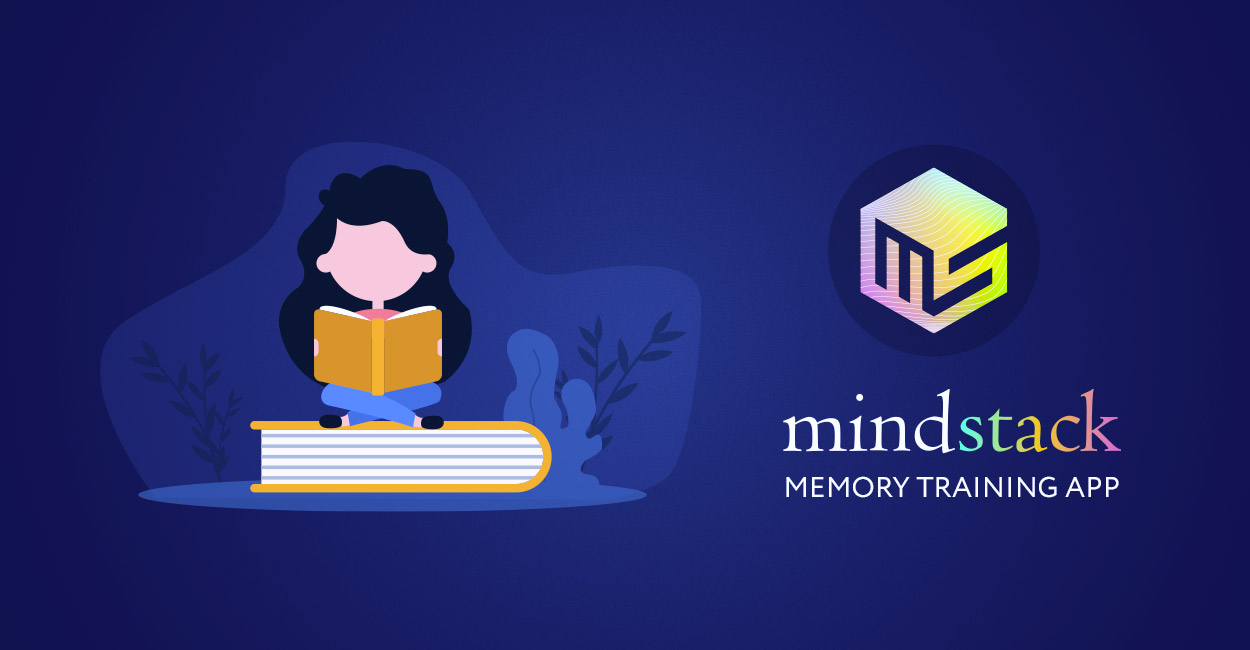
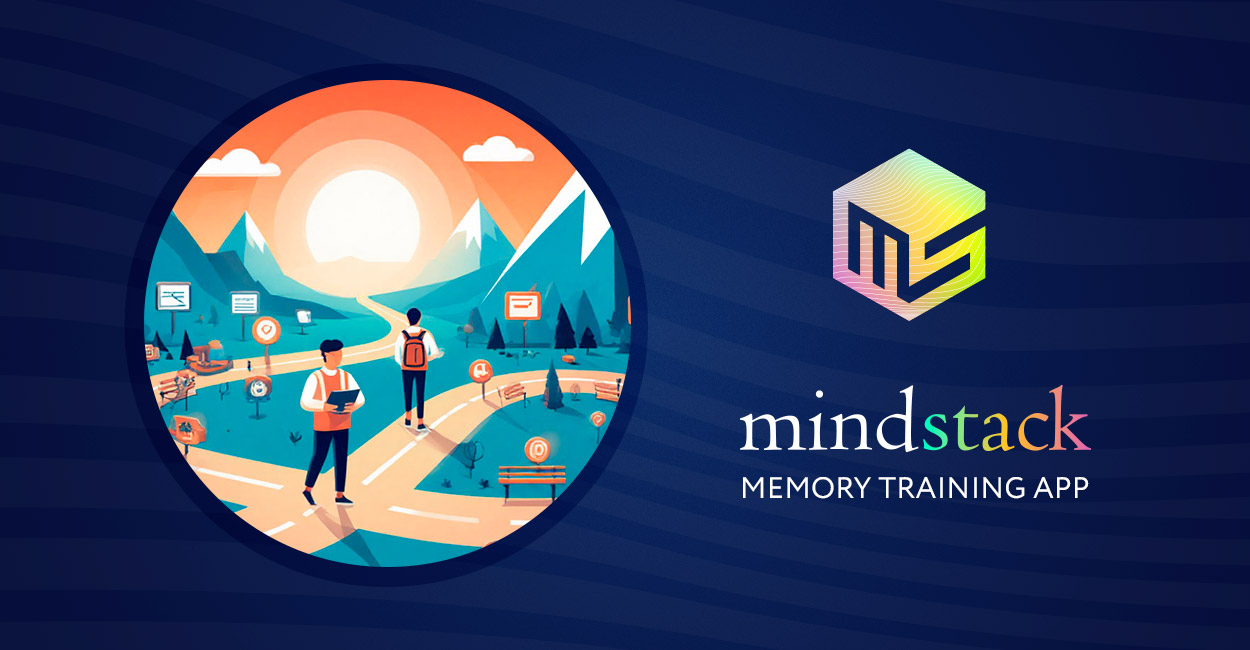
Issue #56: Landing page: Added images, updated styles.

diff --git a/src/components/screens/LandingContent/FeaturesSection.tsx b/src/components/screens/LandingContent/FeaturesSection.tsx
@@ -33,7 +33,7 @@ export function FeaturesSection() {
           debugId="CreateCustomTopics"
           title={t('Landing.FeaturesSection.Card-1-Title')}
           description={t('Landing.FeaturesSection.Card-1-Text')}
-          imageSrc="/static/landing/placeholder-feature-16-9.png"
+          imageSrc="/static/landing/features/15.jpg"
           imageAlt={t('Landing.FeaturesSection.Card-1-Title')}
           imageAspectRatio="aspect-video"
           // descriptionSize="lg"
@@ -47,7 +47,7 @@ export function FeaturesSection() {
           debugId="InteractiveWorkouts"
           title={t('Landing.FeaturesSection.Card-2-Title')}
           description={t('Landing.FeaturesSection.Card-2-Text')}
-          imageSrc="/static/landing/placeholder-feature-16-9.png"
+          imageSrc="/static/landing/features/09.jpg"
           imageAlt={t('Landing.FeaturesSection.Card-2-Title')}
           imageAspectRatio="aspect-video"
         />
@@ -55,9 +55,9 @@ export function FeaturesSection() {
           debugId="QuestionAnswerSystem"
           title={t('Landing.FeaturesSection.Card-3-Title')}
           description={t('Landing.FeaturesSection.Card-3-Text')}
-          imageSrc="/static/landing/placeholder-feature-4-3.png"
+          imageSrc="/static/landing/features/07.jpg"
           imageAlt={t('Landing.FeaturesSection.Card-3-Title')}
-          imageAspectRatio="aspect-[4/3]"
+          imageAspectRatio="aspect-video"
         />
       </div>
 
@@ -67,15 +67,15 @@ export function FeaturesSection() {
           debugId="MultiLanguageSupport"
           title={t('Landing.FeaturesSection.Card-4-Title')}
           description={t('Landing.FeaturesSection.Card-4-Text')}
-          imageSrc="/static/landing/placeholder-feature.png"
+          imageSrc="/static/landing/features/10.jpg"
           imageAlt={t('Landing.FeaturesSection.Card-4-Title')}
-          imageAspectRatio="aspect-square"
+          imageAspectRatio="aspect-video"
         />
         <FeatureCard
           debugId="ProgressTracking"
           title={t('Landing.FeaturesSection.Card-5-Title')}
           description={t('Landing.FeaturesSection.Card-5-Text')}
-          imageSrc="/static/landing/placeholder-feature-16-9.png"
+          imageSrc="/static/landing/features/11.jpg"
           imageAlt={t('Landing.FeaturesSection.Card-5-Title')}
           imageAspectRatio="aspect-video"
         />
@@ -83,9 +83,9 @@ export function FeaturesSection() {
           debugId="ShareCollaborate"
           title={t('Landing.FeaturesSection.Card-6-Title')}
           description={t('Landing.FeaturesSection.Card-6-Text')}
-          imageSrc="/static/landing/placeholder-feature-4-3.png"
+          imageSrc="/static/landing/features/13.jpg"
           imageAlt={t('Landing.FeaturesSection.Card-6-Title')}
-          imageAspectRatio="aspect-[4/3]"
+          imageAspectRatio="aspect-video"
         />
       </div>
     </section>

diff --git a/src/components/blocks/WelcomeVisualBlock.tsx b/src/components/blocks/WelcomeVisualBlock.tsx
@@ -2,27 +2,40 @@ import Image from 'next/image';
 
 import { TPropsWithClassName } from '@/lib/types';
 import { cn } from '@/lib/utils';
+import { useT } from '@/i18n';
 import { SmallWelcomeText } from '@/components/screens/SmallWelcomeText';
-import svgArt from '@/assets/arts/bink-bus-single.svg';
+// import svgArt from '@/assets/arts/bink-bus-single.svg';
 import { isDev } from '@/constants';
 
 export function WelcomeVisualBlock(props: TPropsWithClassName) {
   const { className } = props;
+  const t = useT();
   return (
     <div
       className={cn(
-        isDev && '__WelcomeVisualBlock_Scroll', // DEBUG
-        'flex flex-1 flex-col items-center justify-center',
+        isDev && '__WelcomeVisualBlock', // DEBUG
+        'relative w-full p-6',
+        'flex flex-1 flex-col items-center justify-center gap-4',
         className,
       )}
     >
       <div
         className={cn(
-          isDev && '__WelcomeVisualBlock', // DEBUG
-          'relative w-full px-6',
-          'flex flex-1 flex-col items-center justify-center',
+          isDev && '__WelcomeVisualBlock_ImageContainer', // DEBUG
+          'relative w-full overflow-hidden rounded-lg',
+          'aspect-video',
         )}
       >
+        <Image
+          src="/static/landing/features/14.jpg"
+          alt={t('Landing.HeroSection.Title')}
+          fill
+          className="object-cover"
+          priority
+        />
+      </div>
+
+      {/* // Show a logo in the top right corner
         <Image
           src={svgArt}
           alt="Intro illustration"
@@ -33,7 +46,6 @@ export function WelcomeVisualBlock(props: TPropsWithClassName) {
             'select-none',
           )}
         />
-        {/* // Show a logo in the top right corner
         <div
           className={cn(
             isDev && '__WelcomeVisualBlock_Logo', // DEBUG
@@ -47,8 +59,7 @@ export function WelcomeVisualBlock(props: TPropsWithClassName) {
           <Image src={logoSvg} className="h-12 w-auto" alt={siteTitle} priority={false} />
         </div>
         */}
-        <SmallWelcomeText className="p-6 pb-8 pt-0" />
-      </div>
+      <SmallWelcomeText className="" />
     </div>
   );
 }

diff --git a/src/components/blocks/InfoVisualBlock.tsx b/src/components/blocks/InfoVisualBlock.tsx
@@ -2,11 +2,13 @@ import Image from 'next/image';
 
 import { TPropsWithClassName } from '@/lib/types';
 import { cn } from '@/lib/utils';
-import svgArt from '@/assets/arts/girl-with-a-book.svg';
+import { useT } from '@/i18n';
+// import svgArt from '@/assets/arts/girl-with-a-book.svg';
 import { isDev } from '@/constants';
 
 export function InfoVisualBlock(props: TPropsWithClassName) {
   const { className } = props;
+  const t = useT();
   return (
     <div
       className={cn(
@@ -17,8 +19,26 @@ export function InfoVisualBlock(props: TPropsWithClassName) {
         'flex flex-col',
         'items-stretch',
         'justify-center',
+        'w-full',
+        'max-w-xl',
       )}
     >
+      <div
+        className={cn(
+          isDev && '__InfoVisualBlock_ImageContainer', // DEBUG
+          'relative w-full overflow-hidden rounded-lg',
+          'aspect-video',
+        )}
+      >
+        <Image
+          src="/static/landing/features/14.jpg"
+          alt={t('Landing.HeroSection.Title')}
+          fill
+          className="object-cover"
+          priority
+        />
+      </div>
+      {/*
       <Image
         // priority
         src={svgArt}
@@ -29,7 +49,6 @@ export function InfoVisualBlock(props: TPropsWithClassName) {
           'sm:max-w-lg',
         )}
       />
-      {/*
       <div
         className={cn(
           isDev && '__InfoVisualBlock:Art', // DEBUG

diff --git a/src/features/categories/actions/getRecentCategories.ts b/src/features/categories/actions/getRecentCategories.ts
@@ -8,20 +8,17 @@ import { getErrorText } from '@/lib/helpers';
 import { TLocale } from '@/i18n/types';
 import { hourMs } from '@/constants/datetime';
 
+import { recentCategoriesCount } from '../constants';
+
 /** Auto-revalidate every hour (in seconds) */
 const revalidateTimeoutSec = Math.round(hourMs / 1000);
-
-const defaultRecentCategoriesCount = 5;
 
 interface TParams {
   take?: number;
   locale?: TLocale;
 }
 
-export async function getRecentCategories({
-  take = defaultRecentCategoriesCount,
-  locale,
-}: TParams) {
+export async function getRecentCategories({ take = recentCategoriesCount, locale }: TParams) {
   try {
     // NOTE: Don't use `getAvailableCategories`, because it uses nextjs context
     // (`auth`, for example, what is unavailable during SSG, if called from
@@ -67,7 +64,7 @@ export async function getRecentCategories({
 }
 
 export const getCachedRecentCategories = async ({
-  take = defaultRecentCategoriesCount,
+  take = recentCategoriesCount,
   locale,
 }: TParams) => {
   const localeKey = locale ?? 'all';

diff --git a/src/components/screens/LandingContent/shared/FAQAccordionItem.tsx b/src/components/screens/LandingContent/shared/FAQAccordionItem.tsx
@@ -4,6 +4,7 @@ import React from 'react';
 
 import { cn } from '@/lib/utils';
 import { AccordionContent, AccordionItem, AccordionTrigger } from '@/components/ui/Accordion';
+import * as Icons from '@/components/shared/Icons';
 import { isDev } from '@/config';
 
 interface FAQAccordionItemProps {
@@ -27,8 +28,13 @@ export function FAQAccordionItem({ debugId, value, question, answer }: FAQAccord
           isDev && '__FAQAccordionItem_AccordionTrigger', // DEBUG
           'text-truncate px-6 py-6 text-xl font-semibold text-theme-600 dark:text-theme-400 max-sm:text-base',
         )}
+        wrapperClassName={cn(
+          isDev && '__FAQAccordionItem_AccordionTrigger', // DEBUG
+          'flex gap-4 items-center',
+        )}
       >
-        {question}
+        <Icons.MessageCircleQuestion className="size-8 text-theme opacity-50" />
+        <span className="text-truncate flex-1">{question}</span>
       </AccordionTrigger>
       <AccordionContent
         className={cn(

diff --git a/src/components/ui/Accordion.tsx b/src/components/ui/Accordion.tsx
@@ -23,8 +23,8 @@ AccordionItem.displayName = 'AccordionItem';
 
 const AccordionTrigger = React.forwardRef<
   React.ElementRef<typeof AccordionPrimitive.Trigger>,
-  React.ComponentPropsWithoutRef<typeof AccordionPrimitive.Trigger>
->(({ className, children, ...props }, ref) => (
+  React.ComponentPropsWithoutRef<typeof AccordionPrimitive.Trigger> & { wrapperClassName?: string }
+>(({ className, wrapperClassName, children, ...props }, ref) => (
   <AccordionPrimitive.Header
     className={cn(
       isDev && '__AccordionTrigger_Header', // DEBUG
@@ -40,7 +40,7 @@ const AccordionTrigger = React.forwardRef<
       )}
       {...props}
     >
-      <span className="text-truncate">{children}</span>
+      <span className={cn('text-truncate', wrapperClassName)}>{children}</span>
       <ChevronDown className="size-4 shrink-0 transition-transform duration-200" />
     </AccordionPrimitive.Trigger>
   </AccordionPrimitive.Header>

diff --git a/src/components/screens/LandingContent/CategoriesSection.tsx b/src/components/screens/LandingContent/CategoriesSection.tsx
@@ -36,7 +36,9 @@ export function CategoriesSection() {
             'flex flex-col gap-4',
           )}
         >
-          <p className="text-truncate">{t('Landing.CategoriesSection.IntroduceCategories')}</p>
+          <h3 className="text-truncate mb-3 mt-0 text-xl font-semibold text-theme">
+            {t('Landing.CategoriesSection.IntroduceCategories')}
+          </h3>
           {recentCategories.map((category) => (
             <CategoriesSectionItem
               key={category.id}
@@ -64,7 +66,7 @@ export function CategoriesSection() {
         <Link
           href={`${availableCategoriesRoute}/suggest` as TRoutePath}
           className={cn(
-            buttonVariants({ variant: 'theme' }),
+            buttonVariants({ variant: user?.id ? 'theme' : 'outline' }),
             'text-truncate flex items-center gap-2',
             !user?.id && 'disabled',
           )}

diff --git a/src/components/screens/LandingContent/CardsWithIconsSection.tsx b/src/components/screens/LandingContent/CardsWithIconsSection.tsx
@@ -29,19 +29,19 @@ export function CardsWithIconsSection() {
       <div className="my-3 grid gap-6 py-6 lg:grid-cols-3">
         <CardWithIcon
           debugId="Card-1"
-          icon={Icons.Sparkles}
+          icon={Icons.Timer}
           title={t('Landing.CardsWithIconsSection.Title-1')}
           description={t('Landing.CardsWithIconsSection.Text-1')}
         />
         <CardWithIcon
           debugId="Card-2"
-          icon={Icons.Heart}
+          icon={Icons.Activity}
           title={t('Landing.CardsWithIconsSection.Title-2')}
           description={t('Landing.CardsWithIconsSection.Text-2')}
         />
         <CardWithIcon
           debugId="Card-3"
-          icon={Icons.Star}
+          icon={Icons.ScanEye}
           title={t('Landing.CardsWithIconsSection.Title-3')}
           description={t('Landing.CardsWithIconsSection.Text-3')}
         />

diff --git a/src/components/screens/LandingContent/HeroSection.tsx b/src/components/screens/LandingContent/HeroSection.tsx
@@ -74,15 +74,12 @@ export function HeroSection() {
         <div
           className={cn(
             isDev && '__HeroSection_ImageContainer', // DEBUG
-            'relative w-full overflow-hidden rounded-xl',
-            'aspect-[16/9]',
+            'relative w-full overflow-hidden rounded-lg',
+            'aspect-video',
           )}
         >
           <Image
-            // src="/static/landing/placeholder-main-ui.png"
-            // src="/static/landing/top-splash/como-estas-v1.jpg"
-            // src="/static/landing/top-splash/brain-clash-v2.jpg"
-            src="/static/landing/top-splash/brain-clash-v6.jpg"
+            src="/static/landing/features/14.jpg"
             alt={t('Landing.HeroSection.Title')}
             fill
             className="object-cover"

diff --git a/src/components/screens/LandingContent/shared/FeatureCard.tsx b/src/components/screens/LandingContent/shared/FeatureCard.tsx
@@ -40,6 +40,9 @@ export function FeatureCard({
         className,
       )}
     >
+      <div className={cn('relative w-full overflow-hidden rounded-lg', imageAspectRatio)}>
+        <Image src={imageSrc} alt={imageAlt} fill className="object-cover" />
+      </div>
       <div className={cn(contentMaxWidth)}>
         <h3 className="text-truncate mb-3 mt-0 text-xl font-semibold text-theme">{title}</h3>
         <p
@@ -50,9 +53,6 @@ export function FeatureCard({
         >
           {description}
         </p>
-      </div>
-      <div className={cn('relative w-full overflow-hidden rounded-lg', imageAspectRatio)}>
-        <Image src={imageSrc} alt={imageAlt} fill className="object-cover" />
       </div>
     </Card>
   );

diff --git a/src/components/screens/LandingContent/BigImageCTASection.tsx b/src/components/screens/LandingContent/BigImageCTASection.tsx
@@ -41,12 +41,12 @@ export function BigImageCTASection() {
         </div>
       </div>
       <div className="relative mt-4 w-full max-w-none">
-        <div className="relative aspect-[2356/1404] w-full overflow-hidden rounded-lg">
+        <div className="relative aspect-video w-full overflow-hidden rounded-lg">
           <Image
-            src="/static/landing/placeholder-main-ui.png"
+            src="/static/landing/features/02.jpg"
             alt={t('Landing.BigImageCTASection.Title')}
             fill
-            className="object-contain"
+            className="object-cover"
           />
         </div>
       </div>

diff --git a/src/components/screens/LandingContent/HowItWorksCards.tsx b/src/components/screens/LandingContent/HowItWorksCards.tsx
@@ -37,13 +37,13 @@ export function HowItWorksCards() {
         />
         <CardWithIcon
           debugId="Card-2"
-          icon={Icons.Heart}
+          icon={Icons.Activity}
           title={t('Landing.HowItWorksCards.Title-2')}
           description={t('Landing.HowItWorksCards.Text-2')}
         />
         <CardWithIcon
           debugId="Card-3"
-          icon={Icons.Star}
+          icon={Icons.LineChart}
           title={t('Landing.HowItWorksCards.Title-3')}
           description={t('Landing.HowItWorksCards.Text-3')}
         />
